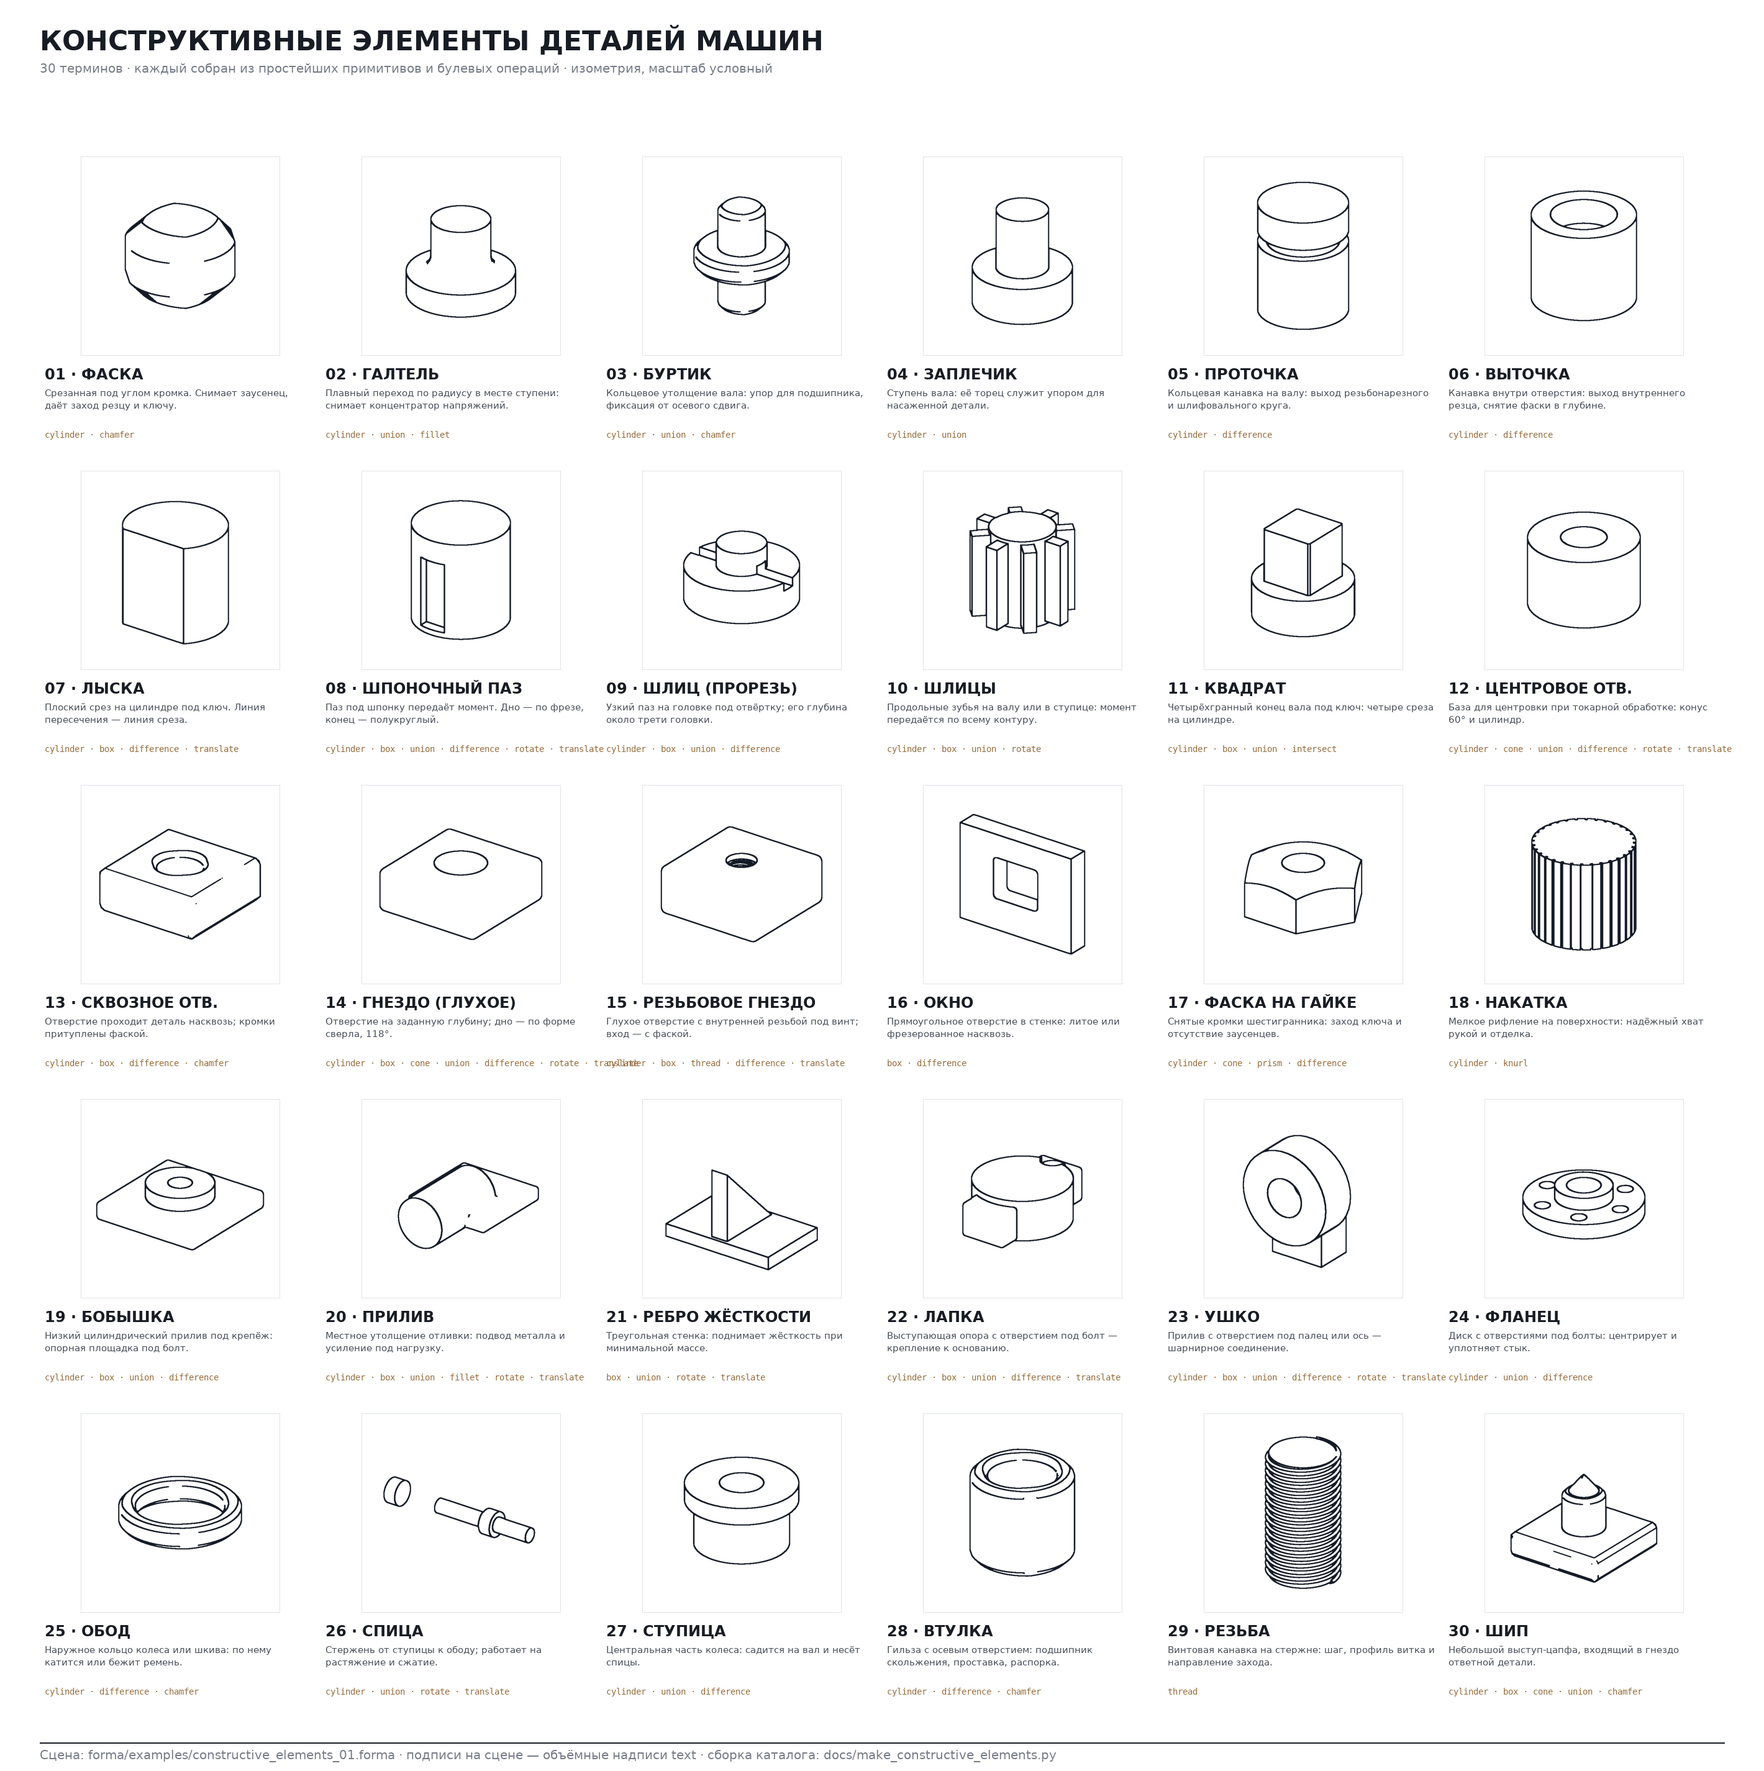
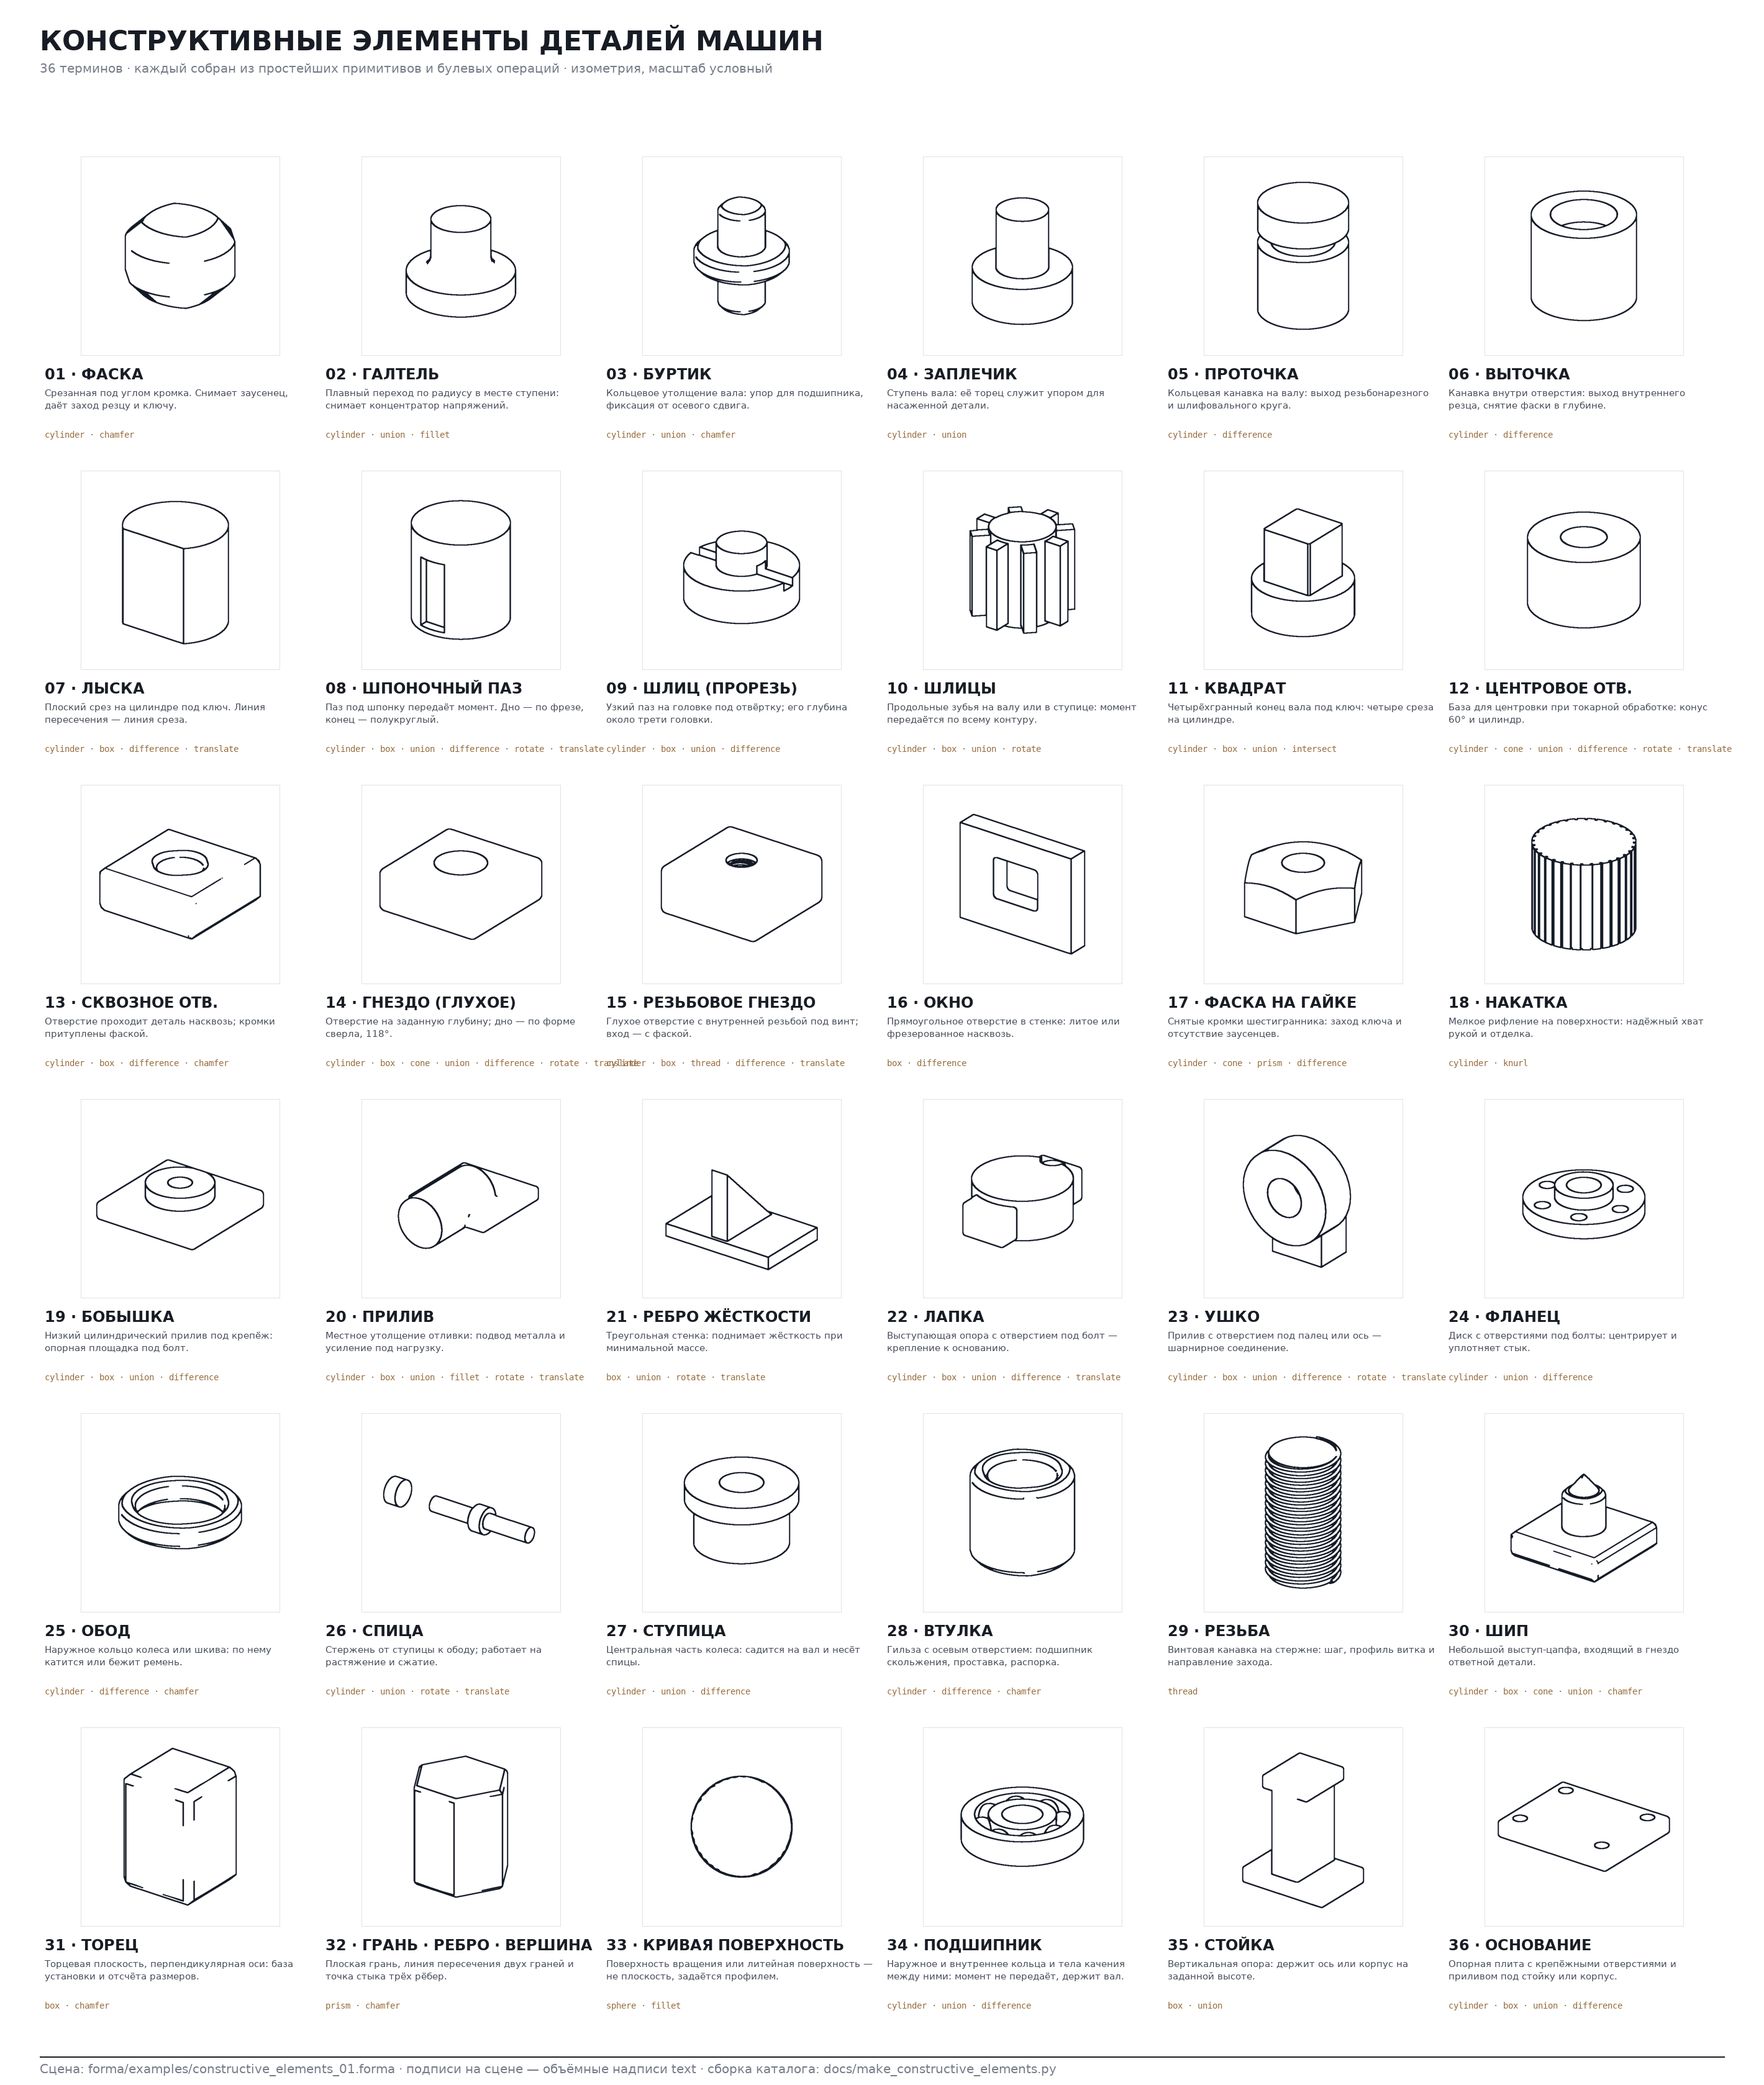
Конструктивные элементы: 36 терминов — добавлены торец, грань/ребро/вершина, кривая поверхность, подшипник, стойка, основание; подписи на сцене вписываются в клетку

diff --git a/forma/docs/make_constructive_elements.py b/forma/docs/make_constructive_elements.py
@@ -27,7 +27,7 @@ OUT = ROOT / "docs" / "elements"
 SCENE = ROOT / "examples" / "constructive_elements_01.forma"
 
 PX, PY = 220.0, 210.0          # шаг клеток
-COLS, ROWS = 6, 5
+COLS, ROWS = 6, 6
 
 
 # ---------------------------------------------------------------------------
@@ -59,8 +59,8 @@ ELEMENTS = [
     ("э05", "ПРОТОЧКА",
      "Кольцевая канавка на валу: выход резьбонарезного и шлифовального круга.",
      ["г5а = cylinder radius=30 height=78 at=[{x},{y},0]",
-      "г5б = cylinder radius=33 height=8 at=[{x},{y},50]",
-      "г5в = cylinder radius=24 height=8 at=[{x},{y},50]",
+      "г5б = cylinder radius=33 height=10 at=[{x},{y},49]",
+      "г5в = cylinder radius=21 height=10 at=[{x},{y},49]",
       "г5кан = difference [г5б, г5в]",
       "э05 = difference [г5а, г5кан]"]),
     ("э06", "ВЫТОЧКА",
@@ -68,7 +68,7 @@ ELEMENTS = [
      ["г6а = cylinder radius=38 height=66 at=[{x},{y},0]",
       "г6б = cylinder radius=24 height=66 at=[{x},{y},0]",
       "г6тр = difference [г6а, г6б]",
-      "г6в = cylinder radius=31 height=9 at=[{x},{y},38]",
+      "г6в = cylinder radius=31 height=11 at=[{x},{y},37]",
       "г6г = cylinder radius=24 height=9 at=[{x},{y},38]",
       "г6выт = difference [г6в, г6г]",
       "э06 = difference [г6тр, г6выт]"]),
@@ -229,11 +229,11 @@ ELEMENTS = [
       "г26б = cylinder radius=12 height=12",
       "г26б = rotate [г26б] angle=90 axis=y",
       "г26б = translate [г26б] offset=[{x},{y},34]",
-      "г26б = translate [г26б] offset=[-52,0,0]",
+      "г26б = translate [г26б] offset=[-44,0,0]",
       "г26в = cylinder radius=12 height=12",
       "г26в = rotate [г26в] angle=90 axis=y",
       "г26в = translate [г26в] offset=[{x},{y},34]",
-      "г26в = translate [г26в] offset=[52,0,0]",
+      "г26в = translate [г26в] offset=[44,0,0]",
       "э26 = union [г26а, г26б, г26в]"]),
     ("э27", "СТУПИЦА",
      "Центральная часть колеса: садится на вал и несёт спицы.",
@@ -258,7 +258,47 @@ ELEMENTS = [
       "г30в = cone radius=9 height=12 at=[{x},{y},40]",
       "г30т = union [г30а, г30б, г30в]",
       "э30 = chamfer [г30т] width=1.5 edges=convex"]),
+    ("э31", "ТОРЕЦ",
+     "Торцевая плоскость, перпендикулярная оси: база установки и отсчёта размеров.",
+     ["г31а = box size=[58,58,84] center=true at=[{x},{y},42]",
+      "э31 = chamfer [г31а] width=3 edges=convex"]),
+    ("э32", "ГРАНЬ · РЕБРО · ВЕРШИНА",
+     "Плоская грань, линия пересечения двух граней и точка стыка трёх рёбер.",
+     ["э32 = prism sides=6 radius=30 height=64 at=[{x},{y},0]",
+      "э32 = chamfer [э32] width=1.2 edges=convex"]),
+    ("э33", "КРИВАЯ ПОВЕРХНОСТЬ",
+     "Поверхность вращения или литейная поверхность — не плоскость, задаётся профилем.",
+     ["э33 = sphere radius=34 at=[{x},{y},0]",
+      "э33 = fillet [э33] radius=1 edges=concave segments=8"]),
+    ("э34", "ПОДШИПНИК",
+     "Наружное и внутреннее кольца и тела качения между ними: момент не передаёт, держит вал.",
+     ["г34а = cylinder radius=45 height=20 at=[{x},{y},0]",
+      "г34б = cylinder radius=35 height=20 at=[{x},{y},0]",
+      "г34н = difference [г34а, г34б]",
+      "г34в = cylinder radius=25 height=20 at=[{x},{y},0]",
+      "г34г = cylinder radius=15 height=20 at=[{x},{y},0]",
+      "г34вн = difference [г34в, г34г]",
+      "{balls}",
+      "э34 = union [г34н, г34вн, {ball_names}]"]),
+    ("э35", "СТОЙКА",
+     "Вертикальная опора: держит ось или корпус на заданной высоте.",
+     ["г35а = box size=[78,56,14] center=true at=[{x},{y},7] round=2",
+      "г35б = box size=[26,50,86] center=true at=[{x},{y},50] round=2",
+      "г35в = box size=[44,50,12] center=true at=[{x},{y},92] round=2",
+      "э35 = union [г35а, г35б, г35в]"]),
+    ("э36", "ОСНОВАНИЕ",
+     "Опорная плита с крепёжными отверстиями и приливом под стойку или корпус.",
+     ["г36а = box size=[112,92,16] center=true at=[{x},{y},8] round=3",
+      "г36б = cylinder radius=26 height=14 at=[{x},{y},0]",
+      "г36т = union [г36а, г36б]",
+      "{bolts}",
+      "э36 = difference [г36т, {bolt_names}]"]),
 ]
+
+
+# на сцене подпись должна влезать в клетку — длинные термины сокращаются,
+# полное название остаётся на листе
+SHORT = {"э32": "ГРАНЬ · РЕБРО", "э33": "КРИВАЯ ПОВЕРХН."}
 
 
 def cell_xy(row: int, col: int) -> tuple[float, float]:
@@ -292,6 +332,20 @@ def build_scene() -> str:
             holes.append(f"{nm} = cylinder radius=6 height=20")
             holes.append(f"{nm} = translate [{nm}] offset="
                          f"[{x + 34 * math.cos(ang):.1f},{y + 34 * math.sin(ang):.1f},4]")
+        balls, ball_names = [], []
+        for k in range(8):
+            ang = math.radians(k * 45)
+            nm = f"г{code[1:]}ш{k}"
+            ball_names.append(nm)
+            balls.append(f"{nm} = sphere radius=9")
+            balls.append(f"{nm} = translate [{nm}] offset="
+                         f"[{x + 30 * math.cos(ang):.1f},{y + 30 * math.sin(ang):.1f},10]")
+        bolts, bolt_names = [], []
+        for k, (bx, by) in enumerate([(-42, -32), (42, -32), (-42, 32), (42, 32)]):
+            nm = f"г{code[1:]}б{k}"
+            bolt_names.append(nm)
+            bolts.append(f"{nm} = cylinder radius=6 height=26")
+            bolts.append(f"{nm} = translate [{nm}] offset=[{x + bx:.1f},{y + by:.1f},-5]")
         teeth, names = [], []
         for k in range(8):
             nm = f"г{code[1:]}зуб{k}"
@@ -307,12 +361,22 @@ def build_scene() -> str:
             if t == "{holes}":
                 lines.extend(holes)
                 continue
+            if t == "{balls}":
+                lines.extend(balls)
+                continue
+            if t == "{bolts}":
+                lines.extend(bolts)
+                continue
             lines.append(t.format(x=f"{x:.1f}", y=f"{y:.1f}",
                                   tooth_names=", ".join(names),
-                                  hole_names=", ".join(hole_names)))
+                                  hole_names=", ".join(hole_names),
+                                  ball_names=", ".join(ball_names),
+                                  bolt_names=", ".join(bolt_names)))
         lines.append(f"color {code} #b9c6d2 material=metal rough=0.45")
+        label = SHORT.get(code, term)
+        lsize = max(10.0, min(15.0, 196.0 / (len(label) * 0.66)))
         lines.append(
-            f'подпись_{code[1:]} = text "{term}" size=15 depth=1.4 align=center '
+            f'подпись_{code[1:]} = text "{label}" size={lsize:.1f} depth=1.4 align=center '
             f'at=[{x:.1f},{y - 84:.1f},0]')
         lines.append(f"color подпись_{code[1:]} #22303c material=plastic rough=0.6")
         lines.append("")
@@ -403,7 +467,7 @@ def main() -> int:
     dr = ImageDraw.Draw(sheet)
     dr.text((pad_x, 40), "КОНСТРУКТИВНЫЕ ЭЛЕМЕНТЫ ДЕТАЛЕЙ МАШИН", font=F_TITLE, fill=INK)
     dr.text((pad_x, 98),
-            "30 терминов · каждый собран из простейших примитивов и булевых операций · "
+            "36 терминов · каждый собран из простейших примитивов и булевых операций · "
             "изометрия, масштаб условный",
             font=F_SUB, fill=SOFT)
 

diff --git a/forma/tests/test_containers_058.py b/forma/tests/test_containers_058.py
@@ -189,7 +189,7 @@ class ReadyProjects058Test(unittest.TestCase):
             "train_carriage": "Поезд: плацкартный вагон 61-4194",
             "arte_lamp_banker_a2492lt_1ab": "Arte Lamp Banker A2492LT-1AB",
             "rpg_sword_01": "Магический меч «Изумрудная жила»",
-            "constructive_elements_01": "Конструктивные элементы: 30 терминов",
+            "constructive_elements_01": "Конструктивные элементы: 36 терминов",
         }
         catalog = dict((key, title) for title, key in EXAMPLES)
         self.assertEqual(len(EXAMPLES), 24)

diff --git a/forma/forma/webui.py b/forma/forma/webui.py
@@ -907,7 +907,7 @@ EXAMPLES = [
     ("Arte Lamp Banker A2492LT-1AB", "arte_lamp_banker_a2492lt_1ab"),
     ("Магический меч «Изумрудная жила»", "rpg_sword_01"),
     ("Квартал 01: городская инфраструктура", "street_kit_01"),
-    ("Конструктивные элементы: 30 терминов", "constructive_elements_01"),
+    ("Конструктивные элементы: 36 терминов", "constructive_elements_01"),
 ]
 
 
